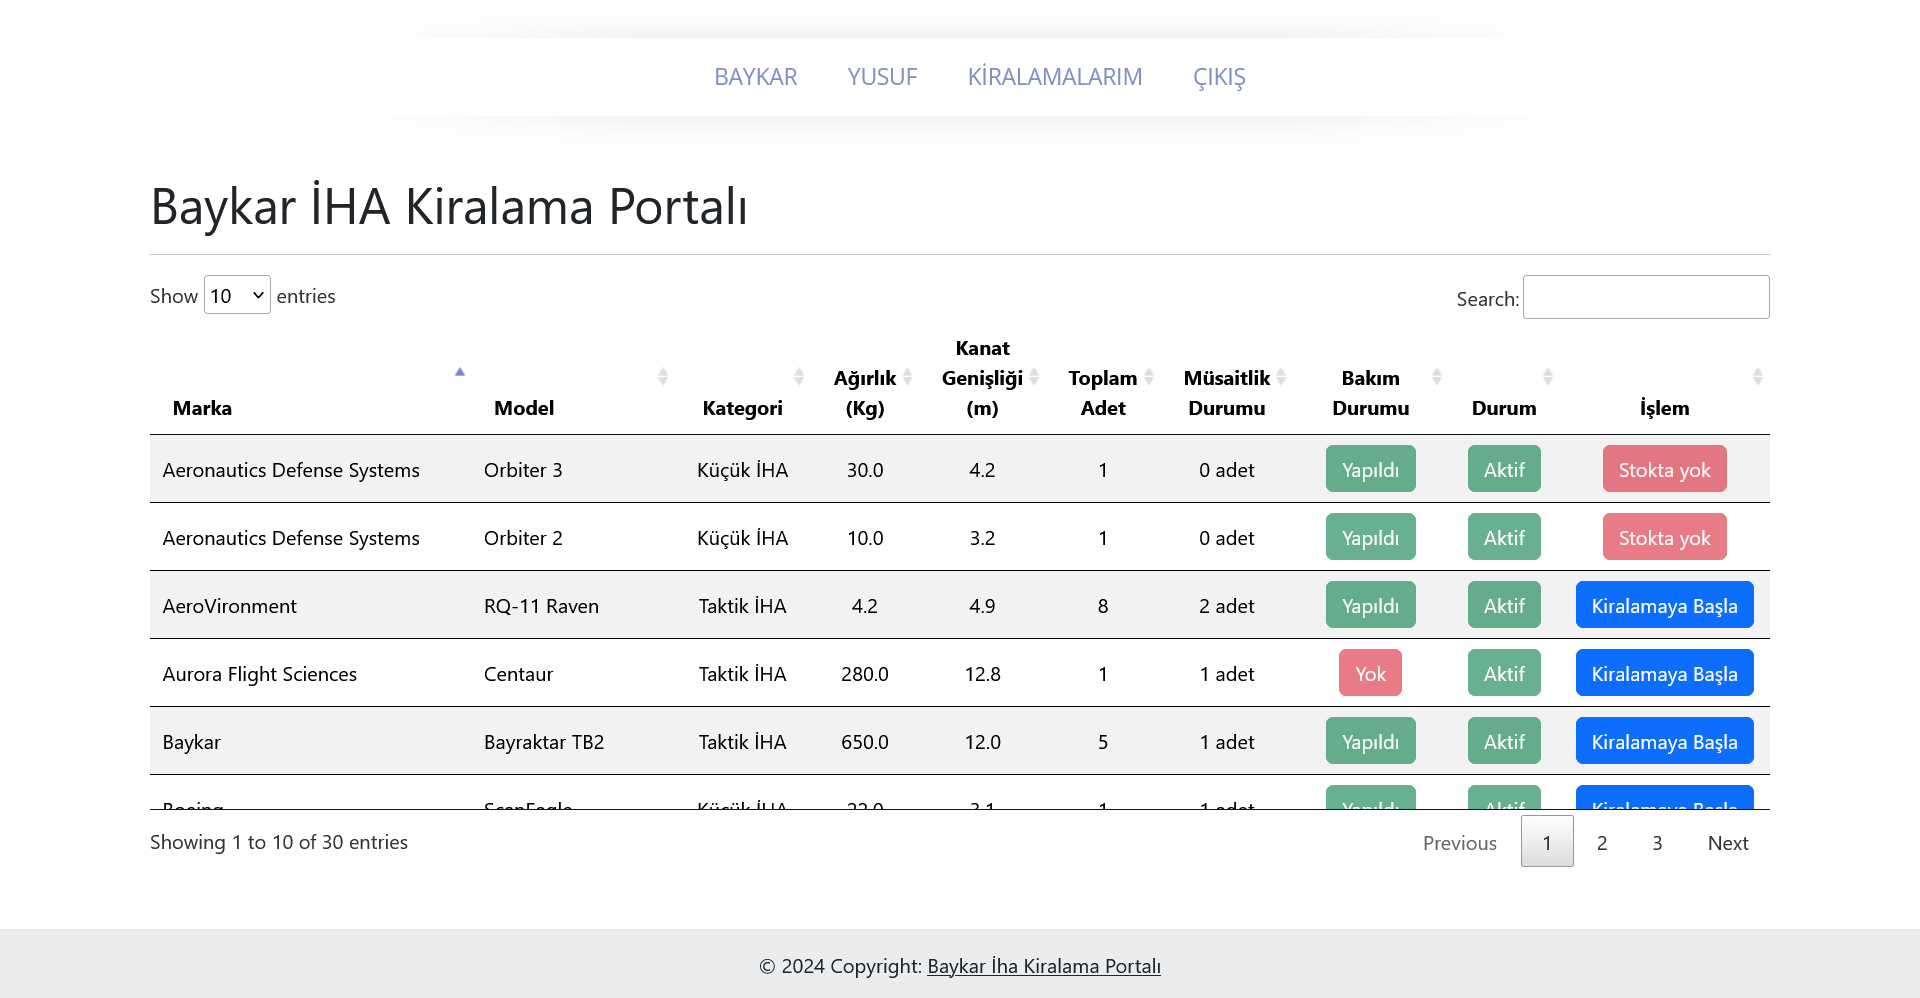
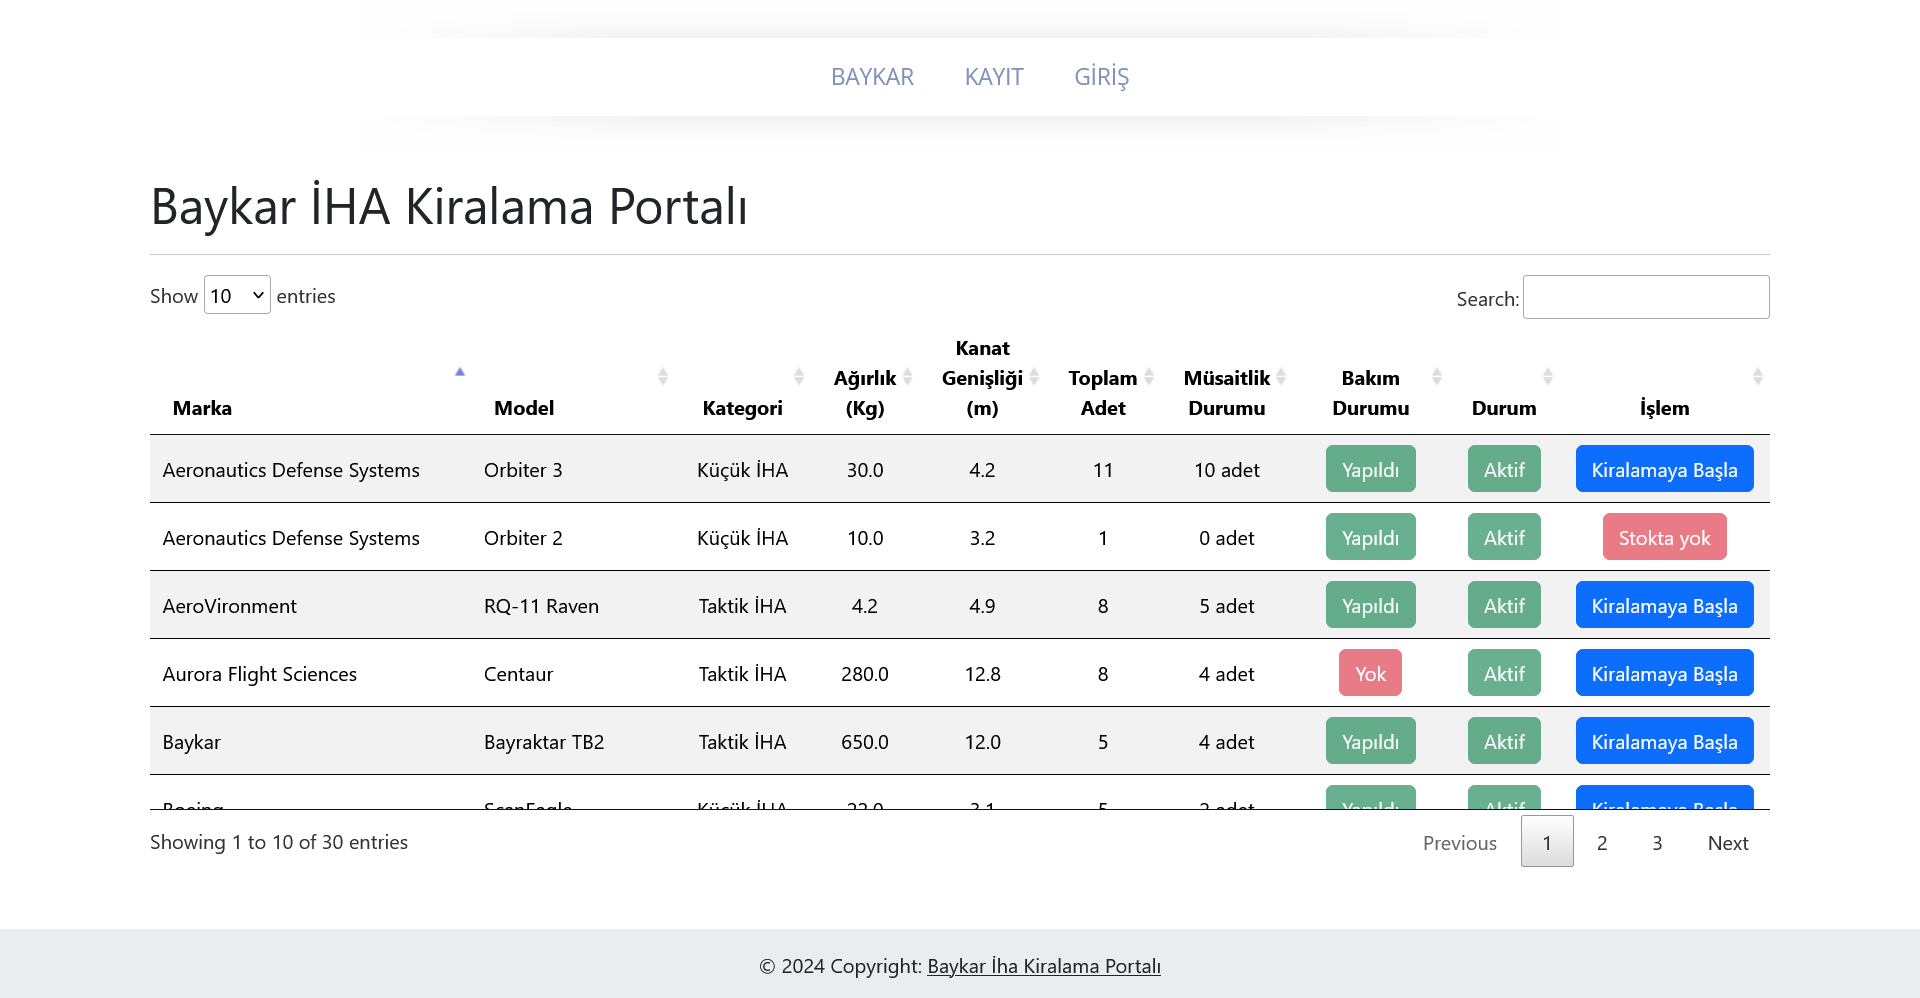
düzenleme

diff --git a/ihakiralama/customer/templates/customer/rent-update.html b/ihakiralama/customer/templates/customer/rent-update.html
@@ -1,9 +1,15 @@
 {% extends "base.html" %}
 
-{% block title%} ihalar {% endblock %}
+{% block title%} Kiralama Düzenle {% endblock %}
 
 {% block content %}
-<div class="container py-5">
+<script type="text/javascript" src="https://cdn.jsdelivr.net/jquery/latest/jquery.min.js"></script>
+<script type="text/javascript" src="https://cdn.jsdelivr.net/momentjs/latest/moment.min.js"></script>
+<script type="text/javascript" src="https://cdn.jsdelivr.net/npm/daterangepicker/daterangepicker.min.js"></script>
+<link rel="stylesheet" type="text/css" href="https://cdn.jsdelivr.net/npm/daterangepicker/daterangepicker.css" />
+
+
+<div class="container">
     <div class="row">
         <div class="col-md-6 offset-md-3">
             <h1 class="mb-4 text-center"><b>{{ rent.Iha_id.Marka }} / {{ rent.Iha_id.Model }}</b></h1>
@@ -25,28 +31,21 @@
 
                 <div class="card-body">
                     <b>Mevcut kiralama aralığınız:</b>
-                    <p class="card-text">Kira Başlangıç: <b>{{ rent.kira_baslangic }}</b></p>
-                    <p class="card-text">Kira Bitiş: <b>{{ rent.kira_bitis }}</b></p>
+                    <p class="card-text">Kira Başlangıç: <b>{{ rent.kira_baslangic|date:"d.m.Y - H:i" }}</b></p>
+                    <p class="card-text">Kira Bitiş: <b>{{ rent.kira_bitis|date:"d.m.Y - H:i" }}</b></p>
                     <br>
                     <form method="POST" action="{% url 'rent-update' rent.id %}">
                         {% csrf_token %}
                         <input type="hidden" name="rent_id" value="{{ rent.id }}">
-                        <b>Yeni kiralama aralığınız</b>
-                        <div class="form-group">
-                            <label for="start_date" class="form-label">Kiralama Başlangıç Tarihi:</label>
-                            <input type="datetime-local" id="start_date" name="start_date" class="form-control"
-                                   value="{{ iha.kira_baslangic }}">
-                        </div>
-                        <br>
-                        <div class="form-group">
-                            <label for="end_date" class="form-label">Kiralama Bitiş Tarihi:</label>
-                            <input type="datetime-local" id="end_date" name="end_date" class="form-control"
-                                   value="{{ iha.kira_bitis }}">
-                        </div>
 
+                        <p><b>Yeni kiralama aralığınız</b></p>
+                        <div class="form-group">
+                            <input type="text" class="form-control" id="daterange" name="datetimes">
+                        </div>
                         <div class="text-center mt-4">
                             <button type="submit" class="btn btn-primary btn-lg">Güncelle</button>
                         </div>
+
                     </form>
 
                 </div>
@@ -55,4 +54,83 @@
     </div>
 </div>
 
+<script>
+$(function() {
+  $('#daterange').daterangepicker({
+    "showDropdowns": true,
+    "timePicker": true,
+    "timePicker24Hour": true,
+    "timePickerIncrement": 10,
+    "maxSpan": {
+        "days": 7
+    },
+    "locale": {
+        "format": "MM/DD/YYYY HH:mm",
+        "separator": " - ",
+        "applyLabel": "Apply",
+        "cancelLabel": "Cancel",
+        "fromLabel": "From",
+        "toLabel": "To",
+        "customRangeLabel": "Custom",
+        "weekLabel": "W",
+        "daysOfWeek": [
+            "Su",
+            "Mo",
+            "Tu",
+            "We",
+            "Th",
+            "Fr",
+            "Sa"
+        ],
+        "monthNames": [
+            "January",
+            "February",
+            "March",
+            "April",
+            "May",
+            "June",
+            "July",
+            "August",
+            "September",
+            "October",
+            "November",
+            "December"
+        ],
+        "firstDay": 1
+    },
+    "startDate": "05/03/2024",
+    "endDate": "05/06/2024",
+    "opens": "center"
+}, function(start, end, label) {
+});
+});
+</script>
+<script>
+ $('#submitBtn').click(function() {
+    var dateRange = $('#daterange').val();
+    var start_date = moment(dateRange.split(' - ')[0], 'MM/DD/YYYY HH:mm').format('YYYY-MM-DD HH:mm:ss');
+    var end_date = moment(dateRange.split(' - ')[1], 'MM/DD/YYYY HH:mm').format('YYYY-MM-DD HH:mm:ss');
+
+    $.ajax({
+      type: 'POST',
+      url: $('#rentForm').attr('action'),
+      headers: {
+        'X-CSRFToken': $('input[name=csrfmiddlewaretoken]').val()
+      },
+      data: {
+        start_date: start_date,
+        end_date: end_date
+      },
+      success: function(response) {
+        // Handle success response
+        console.log(response);
+      },
+      error: function(xhr, errmsg, err) {
+        // Handle error response
+        console.log(xhr.status + ": " + xhr.responseText);
+      }
+    });
+  });
+});
+</script>
 {% endblock %}

diff --git a/ihakiralama/customer/templates/customer/renteds.html b/ihakiralama/customer/templates/customer/renteds.html
@@ -1,7 +1,7 @@
 {% extends "base.html" %}
 {% load static %}
 
-{% block title %} Kiralamalar {% endblock %}
+{% block title %} Kiralamalarım {% endblock %}
 {% block css_files %}
 <link rel="stylesheet" type="text/css" href="https://cdn.datatables.net/v/dt/dt-1.11.5/datatables.min.css"/>
 <script src="https://ajax.googleapis.com/ajax/libs/jquery/3.5.1/jquery.min.js"></script>
@@ -14,11 +14,14 @@
 <div class="container">
     <h1>Kiralanmış İhalar</h1>
     <hr>
-    {% if success %}
-    <div class="alert alert-success">
-        {{success}}
-    </div>
-    {% endif %}
+{% if success %}
+{% autoescape off %}
+<div class="alert alert-success">
+    {{success}}
+</div>
+{% endautoescape %}
+{% endif %}
+
     <table id="datatable1" class="table table-striped">
         <thead>
         <tr>
@@ -40,7 +43,7 @@
         </tbody>
     </table>
 </div>
-
+<div class="container" style="visibility: hidden; margin: 80px"></div>
 
 <script src="https://code.jquery.com/jquery-3.6.0.min.js"></script>
 <script type="text/javascript">
@@ -82,7 +85,7 @@
             "createdRow": function(row, data, index) {
                 $('td', row).css('vertical-align', 'middle').css('text-align');
             },
-            "scrollY": "50vh", // Sabit bir yükseklik belirtilebilir
+            "scrollY": "40vh", // Sabit bir yükseklik belirtilebilir
       });
     });
 </script>

diff --git a/ihakiralama/customer/templates/customer/partials/_rented_iha.html b/ihakiralama/customer/templates/customer/partials/_rented_iha.html
@@ -10,7 +10,12 @@
     <td>{{ rent.kira_baslangic|date:"d.m.Y - H:i" }}</td>
     <td>{{ rent.kira_bitis|date:"d.m.Y - H:i" }}</td>
     <td>
-        <a href="{% url 'rent-update' rent.id %}" class="btn btn-primary">Düzenle</a>
+        {% if rent.Status %}
+            <a href="{% url 'rent-update' rent.id %}" class="btn btn-primary">Düzenle</a>
+        {% else %}
+        <a href="{% url 'rent-update' rent.id %}" class="btn btn-primary disabled">Düzenle</a>
+        {% endif %}
+
         {% if rent.Status %}
             <a class="btn btn-danger cancel-btn" data-custom-id="{{ rent.id }}">İptal</a>
         {% else %}

diff --git a/ihakiralama/templates/partials/_navbar.html b/ihakiralama/templates/partials/_navbar.html
@@ -6,12 +6,9 @@
         {% if request.session.user_logged_in %}
         {% if request.session.customer_name %}
         <li class="">
-            <a class="" href="/">{{ request.session.customer_name }}</a>
+            <a class="" href="{% url 'renteds' %}">Kiralamalarım ({{ request.session.customer_name }})</a>
         </li>
         {% endif %}
-        <li class="">
-            <a class="" href="{% url 'renteds' %}">Kiralamalarım</a>
-        </li>
         <li class="">
             <a class="" href="{% url 'logout' %}">Çıkış</a>
         </li>

diff --git a/ihakiralama/customer/templates/customer/rentable-detail.html b/ihakiralama/customer/templates/customer/rentable-detail.html
@@ -1,7 +1,7 @@
 {% extends "base.html" %}
 {% load static %}
 
-{% block title%} Rentable Details {% endblock %}
+{% block title%} Detaylar {% endblock %}
 
 {% block content %}
 <form method="GET" action="{% url 'renting' iha.Iha_id %}">

diff --git a/ihakiralama/customer/templates/customer/renting.html b/ihakiralama/customer/templates/customer/renting.html
@@ -1,10 +1,7 @@
 {% extends "base.html" %}
 {% load static %}
 
-{% block title%} Rentable Details {% endblock %}
-
-
-
+{% block title%} Kiralama Tarihleri {% endblock %}
 
 {% block content %}
 

diff --git a/ihakiralama/customer/templates/customer/users/login.html b/ihakiralama/customer/templates/customer/users/login.html
@@ -1,7 +1,7 @@
 {% extends "base.html" %}
 {% load static %}
 
-{% block title %} LOGİN {% endblock %}
+{% block title %} Kullanıcı Giriş {% endblock %}
 
 {% block content %}
 <style>

diff --git a/ihakiralama/customer/views.py b/ihakiralama/customer/views.py
@@ -122,8 +122,6 @@ def renting(request, id):
             return redirect("login")  # Kullanıcı oturumu yoksa giriş sayfasına yönlendir
 
         iha_id = id
-        # start_date = request.POST.get("start_date")
-        # end_date = request.POST.get("end_date")
 
         datetimes = request.POST.get("datetimes")
         start_date_str, end_date_str = datetimes.split(' - ')
@@ -178,8 +176,7 @@ def renting(request, id):
             return render(request, "customer/renteds.html",
                           {
                               "success": "Tebrikler iha kiralama işleminiz başarılı. İyi sürüşler.",
-                              "customer_id": customer_id
-                              # customer_id göndermemizin sebebi ilgili sayfanın html kısmında karşılama olması.
+                              "renteds": Rent.objects.filter(Customer_id=customer_id)
                           })
 
 
@@ -192,7 +189,7 @@ def renteds(request):
         customer_id = request.session.get('customer_id')
         return render(request, 'customer/renteds.html', {
             "renteds": Rent.objects.filter(Customer_id=customer_id),
-            "customer_id": Customer.objects.filter(Customer_id=customer_id)[0].Customer_id,
+            "customer_id": Customer.objects.filter(Customer_id=customer_id)[0].Customer_id
         })
 
     if request.method == "POST":
@@ -217,12 +214,16 @@ def rent_update(request, id):
         # Kullanıcı doğrulaması
         customer_id = request.session.get('customer_id')
         rent = Rent.objects.filter(id=id)[0]
-        rent.kira_baslangic = request.POST.get("start_date")
-        rent.kira_bitis = request.POST.get("end_date")
+
+        datetimes = request.POST.get("datetimes")
+        start_date_str, end_date_str = datetimes.split(' - ')
+        rent.kira_baslangic = datetime.strptime(start_date_str, '%m/%d/%Y %H:%M')
+        rent.kira_bitis = datetime.strptime(end_date_str, '%m/%d/%Y %H:%M')
+
         if not customer_id:
             return redirect("login")  # Kullanıcı oturumu yoksa giriş sayfasına yönlendir
         ################################################
-        if not request.POST.get("start_date") or not request.POST.get("end_date"):
+        if not request.POST.get("datetimes"):
             return render(request, "customer/rent-update.html", {
                 "error": "Tarihler boş bırakılamaz.",
                 "rent": rent
@@ -237,11 +238,12 @@ def rent_update(request, id):
         # kiralama update
         # CRUD (UPDATE)
         rent.save()
-
-        return render(request, "customer/rent-update.html",
+        iha_by_rent_id = Ihas.objects.filter(Iha_id=Rent.objects.filter(id=id)[0].Iha_id_id)[0]
+        success_message = f"Başarılı. <b>{rent.id}</b> kiralama numaralı <b>{iha_by_rent_id.Marka}</b> / <b>{iha_by_rent_id.Model}</b> kiralamanızın tarihleri başarıyla değiştirildi."
+        return render(request, "customer/renteds.html",
                       {
-                          "success": "Başarılı. Kiralama tarihleriniz başarıyla değiştirildi.",
-                          "rent": rent
+                          "success": success_message,
+                          "renteds": Rent.objects.filter(Customer_id=customer_id)
                       })
 
 
